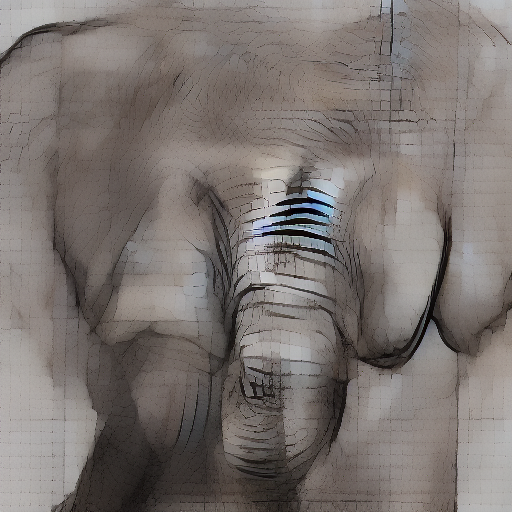
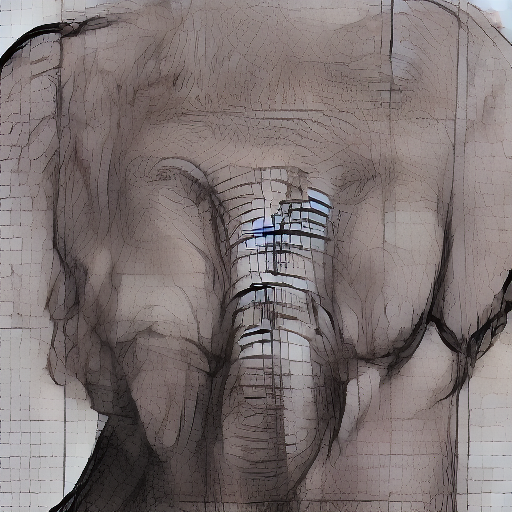
image generator registered users

diff --git a/Model/front_end/user/user.html b/Model/front_end/user/user.html
@@ -139,7 +139,7 @@
             </div>
             <div class="story-place-holder">
                 <div class="text-field">
-                    <textarea name="story" id="story charStory" cols="30" rows="10"
+                    <textarea name="story" id="charStory" cols="30" rows="10"
                         placeholder="Write your story here..."></textarea>
                 </div>
                 <div class="generate-btn">

diff --git a/Model/back_end/diffusion_Model/sd2/main.py b/Model/back_end/diffusion_Model/sd2/main.py
@@ -44,34 +44,66 @@ def clear_folder(folder_path):
             os.remove(os.path.join(folder_path, file))
 
 
+import re
+
+import re
+
+def expand_prompt(prompt: str, count: int) -> list:
+    """
+    Expand a prompt into `count` parts using commas or periods.
+    If parts < count → pad with the last part.
+    If parts > count → truncate to count.
+    """
+    # Split prompt by comma or period
+    parts = re.split(r'[,.]', prompt)
+    
+    # Strip whitespace and remove empty entries
+    parts = [p.strip() for p in parts if p.strip()]
+
+    # Handle edge cases
+    if not parts:
+        return [prompt] * count  # fallback
+
+    if len(parts) >= count:
+        return parts[:count]
+    else:
+        return parts + [parts[-1]] * (count - len(parts))
+
+
+
+
 def generate_image(prompt: str, image_type: str = "guest_user_images", count: int = 1) -> list:
     """
-    Generate image(s) for the given prompt and save them to the correct folder.
-    For 'preview' and 'guest_user_images', clears the folder before saving.
-    For 'shassani', appends numbered images.
+    Generate image(s) for the given prompt and save them in a clean folder.
+    - Always clears the folder before generation.
+    - registered_users: expands prompt and generates multiple images.
+    - Others: generates only 1 image from the original prompt.
     """
-    base_prompt = f"{prompt}. A comic character."
     output_dir = os.path.join(BASE_OUTPUT_DIR, image_type)
     os.makedirs(output_dir, exist_ok=True)
 
-    # Clear folder if it's preview or guest
-    if image_type in ["preview", "guest_user_images"]:
-        clear_folder(output_dir)
-        index_start = 1
+    # ✅ Clear folder before generation
+    clear_folder(output_dir)
+
+    # 🧠 Expand only for registered users
+    if image_type == "shassani":
+        try:
+            prompts = expand_prompt(prompt, count)
+        except Exception as e:
+            print(f"⚠ Prompt expansion failed: {e} — fallback to repeating original.")
+            prompts = [prompt] * count
     else:
-        existing = [
-            f for f in os.listdir(output_dir)
-            if f.endswith((".png", ".jpg", ".jpeg")) and f.startswith(image_type)
-        ]
-        index_start = len(existing) + 1
+        prompts = [prompt]  # Only one image needed for preview/guest
 
     generated_paths = []
 
-    for i in range(count):
-        print(f"🧪 Generating {image_type} image {i + 1}/{count}...")
+    for i, current_prompt in enumerate(prompts):
+        full_prompt = f"{current_prompt}. A comic character."
+
+        print(f"🧪 Generating image {i + 1}/{len(prompts)} → {full_prompt}")
 
         output_image = pipeline.generate(
-            prompt=base_prompt,
+            prompt=full_prompt,
             uncond_prompt="",
             input_image=None,
             strength=0.8,
@@ -86,7 +118,7 @@ def generate_image(prompt: str, image_type: str = "guest_user_images", count: in
             tokenizer=tokenizer,
         )
 
-        filename = f"{image_type}_{index_start + i}.png"
+        filename = f"{image_type}_{i + 1}.png"
         file_path = os.path.join(output_dir, filename)
 
         Image.fromarray(output_image).save(file_path)
